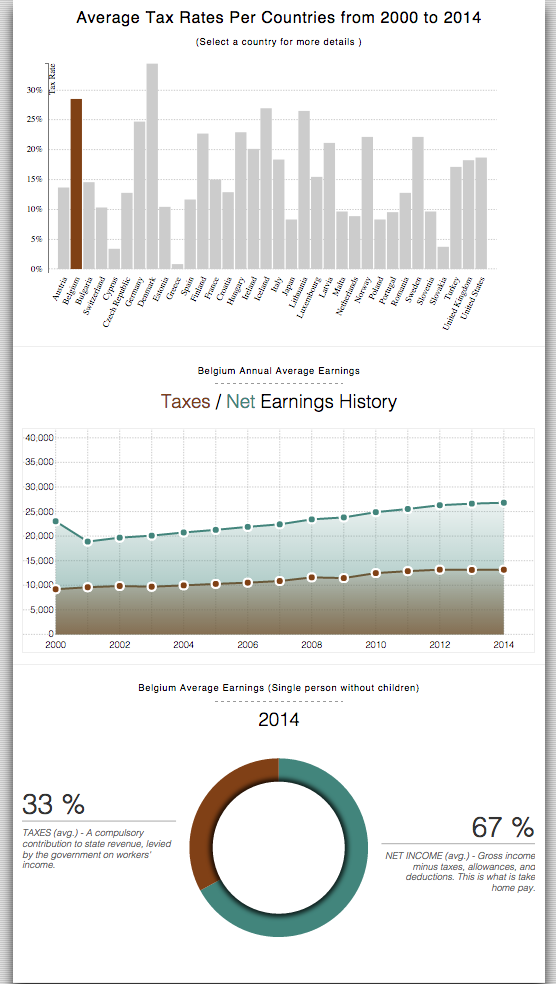
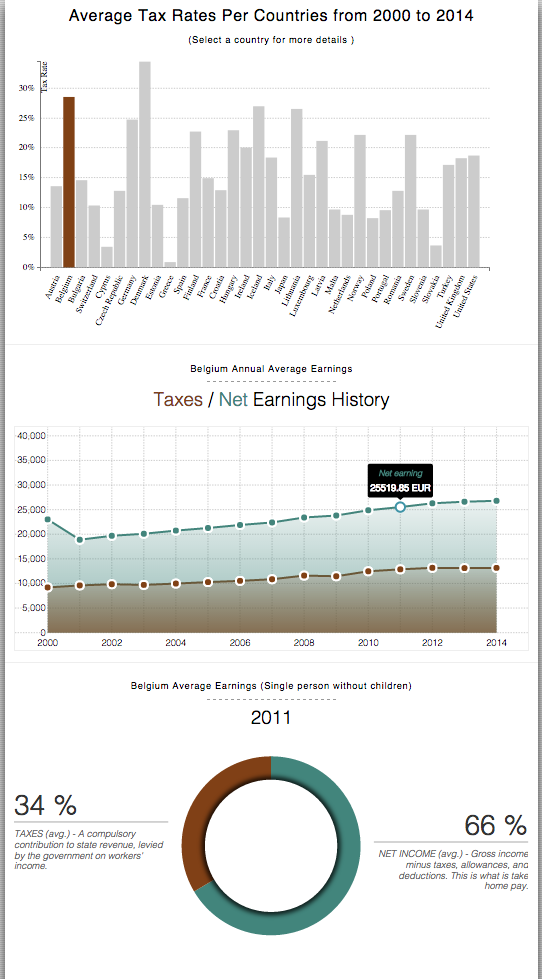
finilize report

diff --git a/public/app/app.js b/public/app/app.js
@@ -3,11 +3,11 @@
         // Initialize the constants and bind events.
         init: function() {
             // Production
-            this.DATAURL_per_country = 'http://radiant-basin-3159.herokuapp.com/api/v1/eurostat/basic/country/';
-            this.DATAURL_all_countries = 'http://radiant-basin-3159.herokuapp.com/api/v1/eurostat/basic/countries/';
+            //this.DATAURL_per_country = 'http://radiant-basin-3159.herokuapp.com/api/v1/eurostat/basic/country/';
+            //this.DATAURL_all_countries = 'http://radiant-basin-3159.herokuapp.com/api/v1/eurostat/basic/countries/';
             // Development
-            //this.DATAURL_per_country = 'http://localhost:3030/api/v1/eurostat/basic/country/';
-            //this.DATAURL_all_countries = 'http://localhost:3030/api/v1/eurostat/basic/countries/';
+            this.DATAURL_per_country = 'http://localhost:3030/api/v1/eurostat/basic/country/';
+            this.DATAURL_all_countries = 'http://localhost:3030/api/v1/eurostat/basic/countries/';
             this.DURATION = 1500;
             this.DELAY    = 500;
             // where we store the data from the middleware

diff --git a/README.md b/README.md
@@ -2,9 +2,11 @@
 ## Summary
 ### Which country has the highest tax rate?
 In which countries do high earners pay the most tax? And where do average earners pay the most?
-This **[visualization](https://radiant-basin-3159.herokuapp.com/)** show the differences between countries for the net earnings and taxes (without including the social security contributions - national insurance).
+This **[visualization](http://radiant-basin-3159.herokuapp.com/)** show the differences between countries for the net earnings and taxes (without including the social security contributions - national insurance).
 
-At the top end of the distribution we have Belgium where single people pay 33% of gross earnings in income tax, followed by Germany with 24%.
+At the top end of the distribution we have Danemark where single people pay 37% of gross earnings in income tax, followed by Belgium with 33%.
+
+At the bottom we have Greece with only 11% of taxes.  This low tax rate probably explain current greek dept crisis...
 
 In a lot of the European countries tax rates are high but the provision of benefits by the state tends to be very generous compared to countries in other parts of the world.
 
@@ -13,7 +15,7 @@ In a lot of the European countries tax rates are high but the provision of benef
 The data (coming from [Eurostat](http://appsso.eurostat.ec.europa.eu/nui/show.do?dataset=earn_nt_net&lang=en)) are available on a yearly basis therefore, it was making sence to display a multi-line chart to express the evolution / trend of the tax / net earning from year to year.
 For an individual year, the pie chart on the top show percentage in a nice way so the reader can immediatly see the ratio of tax vs. net earnings.
 
-Historical data are presented with line chart because like most time-series data, the best way to represent the data is nearly always going to be a line chart.  Using a line chart we can quickly make some observations.  Is there spike for some countries ? etc.  Next, as we are only concern by two categories (tax and net earnings), using a stacked bar (or normilized stacked bar) graph would be too much color on the chart.  The key message is to show the ratio and the differences amongs countries.  
+Historical data are presented with line chart because like most time-series data, the best way to represent the data is nearly always going to be a line chart.  Using a line chart we can quickly make some observations.  Is there spike for some countries ? etc. (see Danemark in 2012)  Next, as we are only concern by two categories (tax and net earnings), using a stacked bar (or normilized stacked bar) graph would be too much color on the chart.  The key message is to show the ratio and the differences amongs countries.  
 
 When the user mouve over a dot of the line graph, the pie chart display the corresponding ratio of the selected year.  
 The choice has been made to **NOT** show the y axis to avoid an overload of information on the screen.  The user interested by a specific value of the line graph can get it when a circle is selected.
@@ -51,13 +53,23 @@ During the survey, several actions has been taken day after day based on recomme
 4. typos were fixed.
 5. labels and titles were carefully re-writter to clearly explain the percentage and charts.
 
-In order to further improove the project, one suggestion was made to use a [Normalized Stacked Bar Chart](http://bl.ocks.org/mbostock/3886394).  This is something that will be considered later to further explain the differences between countries.
+In order to further improove the project, one suggestion was made to use a [Normalized Stacked Bar Chart](http://bl.ocks.org/mbostock/3886394).  Instead a bar chart has been created at the top of the screen to show the average tax per country so the reader can easily compare countries and see the inequalities.
 
 Finally, several people mention that social security contribution, familly allowances, etc. were key information to show in this graph.  This is also a point of concern that will be investigate later to irmpoove the chart.
 
+Last but not least, in the initial version of the project, a drop down was used to select countries.  Now with the addition of the bar chart, the reader can select an individual country by simply selecting the bar of that country.  Also, the pie chart has been put below the line chart because it is most appropriate due to the nature of the pie.  The pie is a focus of a dedicated year.  It make more sence for the reader to 1/ select the country, 2/ select the year of interest than 3/ visualize the ratio of tax/earnings.
+
 The final UI of the project is much better.  This has been confirmed by the feedback that were much better at the end of the survey campaign.
 
+UI before the addition of the bar chart:
+
 ![](./public/pictures/UI_v3.png)
+
+UI after the addition of the bar chart:
+
+![](./public/pictures/UI_v4.png)
+
+Notice that the y-axis of the bar chart is using a percentage but do not show an axis from 0 to 100%.  This choice has been made to clearly emphasis the differences amongst countries.
 
 ## Technological choices
 
@@ -127,6 +139,8 @@ Finding an interesting data set and a story it tells can be the most difficult p
 Data visualization is the end artifact, but it involves multiple steps – finding reliable data, getting the data in the right format, cleaning it up (an often underestimated step in the amount of time it takes!) and then finding the story you will eventually visualize.
 
 Finally, the feedback received for the project were very useful and clearly this part of the project was very interesting especially considering the various point of view from prople with different background.
+
+I really enjoyed this project, it gave me the opportunity to show my background of devlopper applied to data analysis/discovery field.
 
 ## Resources
 * [Eurostat - Net earnings and tax rates (earn_net)](http://appsso.eurostat.ec.europa.eu/nui/show.do?dataset=earn_nt_net&lang=en)
